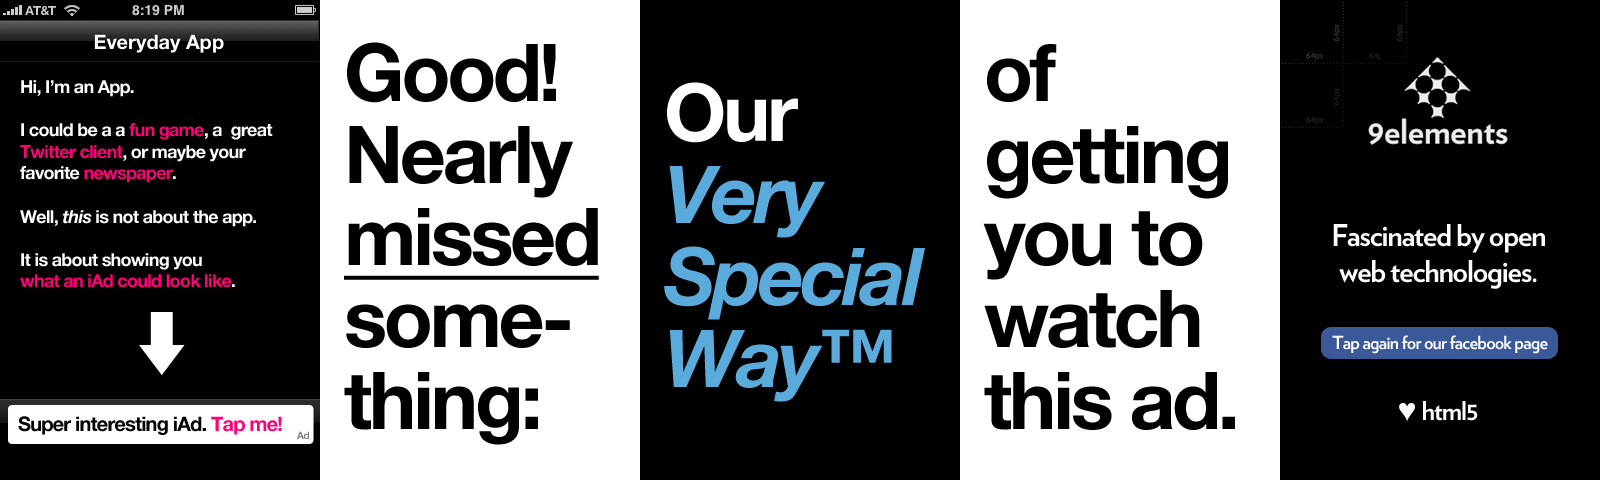
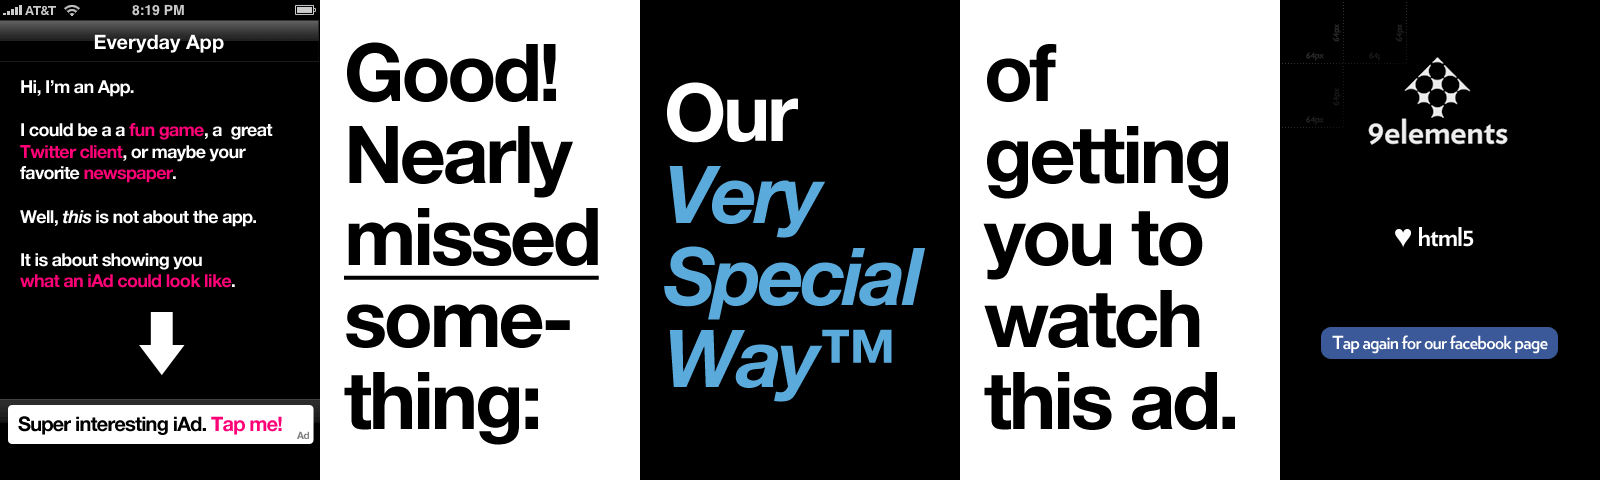
Made image smaller (PNG8), got rotation back in

Changed region(s): [[0.8125, 0.4688, 0.9688, 0.5938], [0.875, 0.8438, 0.9375, 0.875]]

diff --git a/javascripts/application.js b/javascripts/application.js
@@ -11,8 +11,13 @@ jQuery(function ($) {
     var x = 0, y = 0, i = 0;
 
     var Scene = {     
-        ended : false,   
+        ended : false,
+        is_webkit: null,
         initialize : function() {
+            if (RegExp(" AppleWebKit/").test(navigator.userAgent)) {
+                Scene.is_webkit = true;
+            }
+            
             for( i=0; i<Config.numberOfSlides; i++ ) {
                 // construct slide object
                 var slide = {
@@ -78,14 +83,14 @@ jQuery(function ($) {
                 if(rect.data('is-moving') == '0') {
                     rect.data('is-moving', '1');
                     
-                    // if(RegExp(" AppleWebKit/").test(navigator.userAgent)) {
-                    //     rect.css({
-                    //        '-webkit-transform'  : 'rotateY(270deg)',
-                    //        '-webkit-transition' : '-webkit-transform 0.3s ease-in'
-                    //     });
-                    // } else {
+                    if(Scene.is_webkit) {
+                        rect.css({
+                           '-webkit-transform'  : 'rotateY(270deg)',
+                           '-webkit-transition' : '-webkit-transform 0.3s ease-in'
+                        });
+                    } else {
                         rect.fadeOut();
-                    // }
+                    }
             
                     window.setTimeout(function() {
                         Scene.rotateRect(slide, x - 1  , y    );
